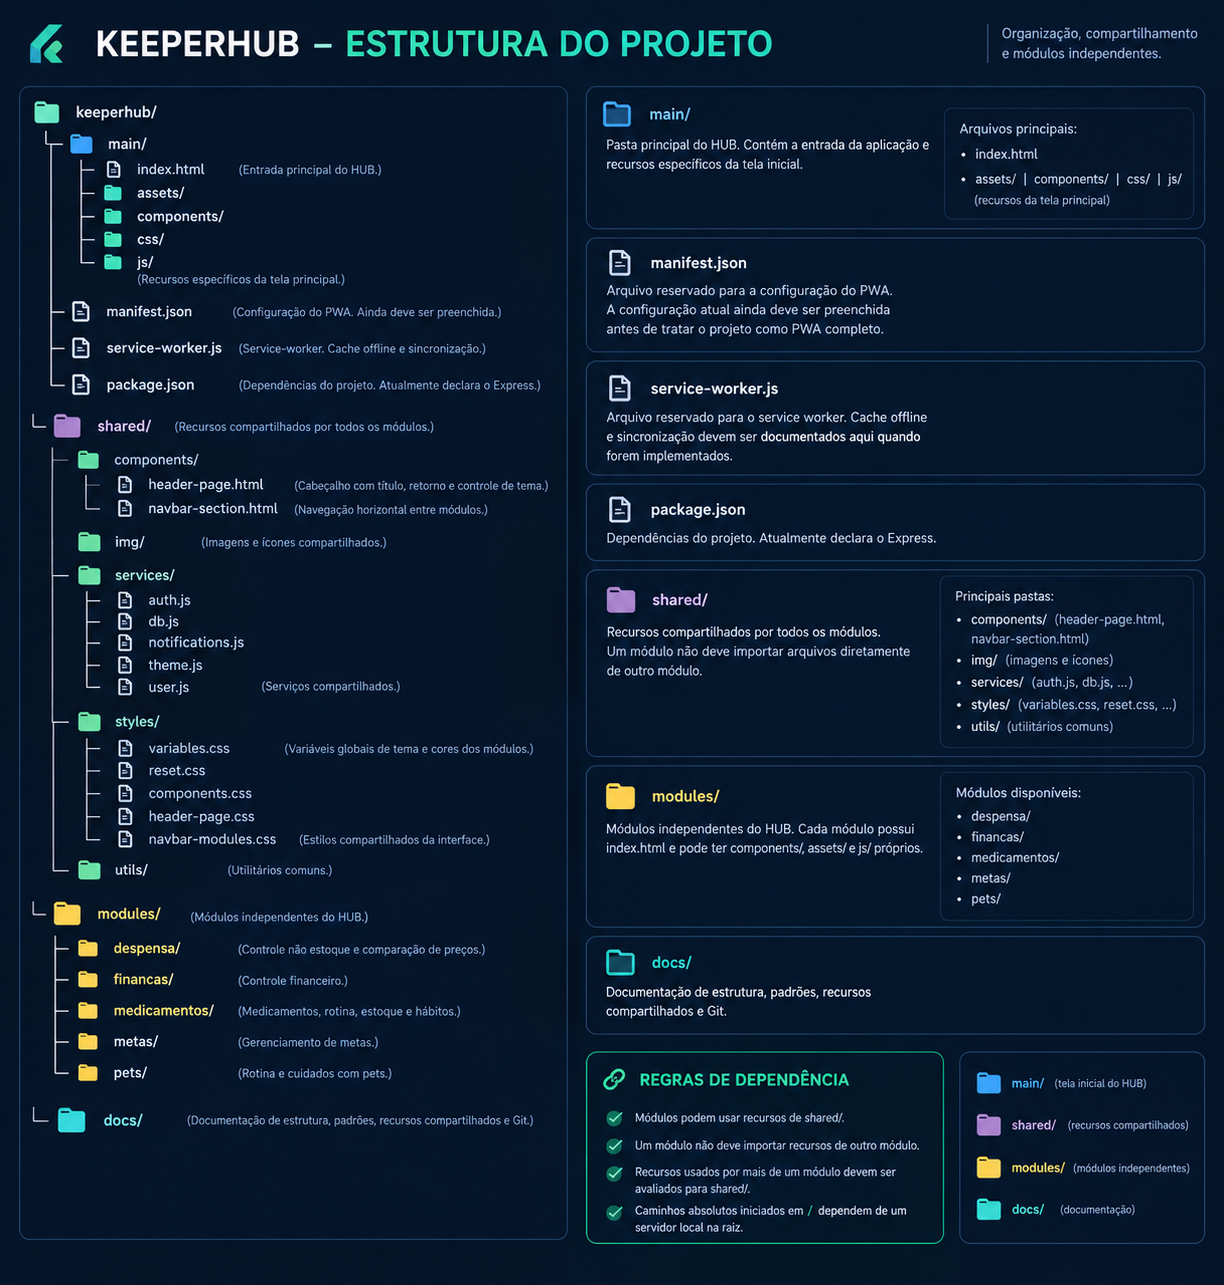
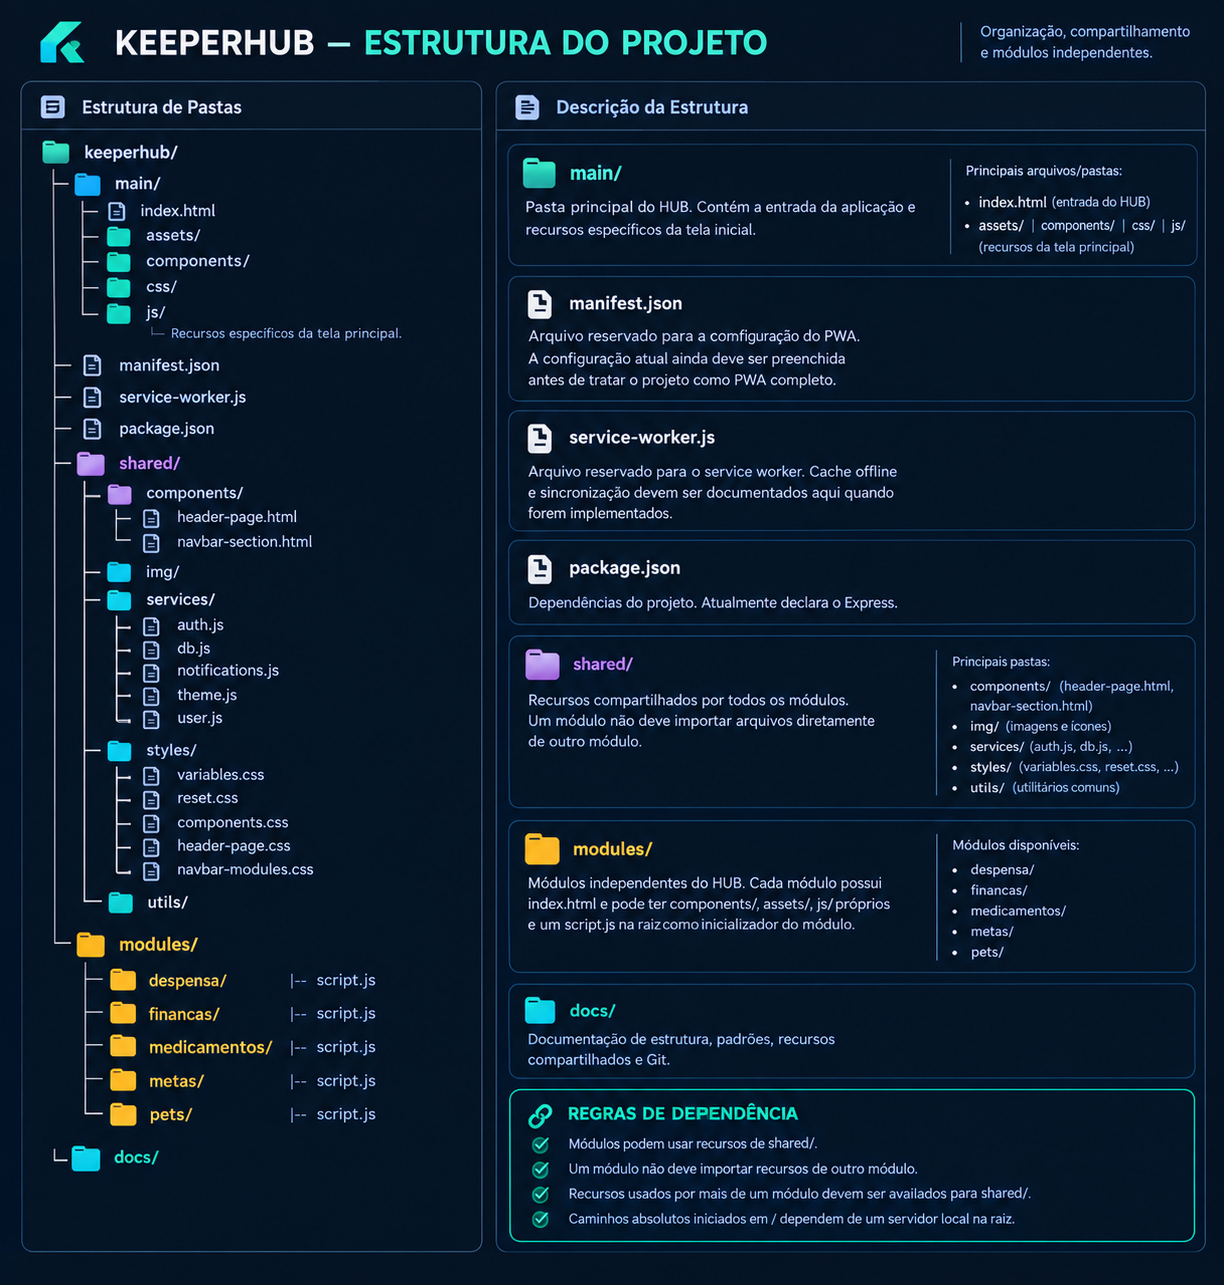
feat: mudança de estrutura

diff --git a/modules/financas/components/relatorios.html b/modules/financas/components/relatorios.html
@@ -24,6 +24,6 @@
       <article class="report-section largest-expense"><h2>MAIOR DESPESA DO MÊS</h2><div><span aria-hidden="true">🛒</span><p><strong>Supermercado</strong><small>Categoria: Alimentação</small></p><b>R$ 650,00</b></div></article>
     </section>
   </main>
-  <script src="../js/script.js"></script>
+  <script src="../script.js"></script>
 </body>
 </html>

diff --git a/modules/financas/components/nova-transacao.html b/modules/financas/components/nova-transacao.html
@@ -36,6 +36,6 @@
         <footer class="actions"><button class="save-button" type="submit"><span aria-hidden="true">✓</span> Salvar transação</button><button class="cancel-button" type="button">Cancelar</button></footer>
     </form>
 </section></main>
-<script src="../js/script.js"></script>
+<script src="../script.js"></script>
 </body>
 </html>

diff --git a/modules/medicamentos/script.js b/modules/medicamentos/script.js
@@ -1,3 +1,6 @@
+// Inicializador do módulo.
+// Este arquivo coordena a execução das funções exportadas dos arquivos em /js,
+// usando import/export e async functions para montar a lógica principal do módulo.
 
 // mudança de abas em medicacoes.html
 document.addEventListener('DOMContentLoaded', () => {

diff --git a/modules/financas/script.js b/modules/financas/script.js
@@ -1,3 +1,7 @@
+// Inicializador do módulo.
+// Este arquivo coordena a execução das funções exportadas dos arquivos em /js,
+// usando import/export e async functions para montar a lógica principal do módulo.
+
 const API_URL = '/api';
 
 async function requestApi(path, options = {}) {

diff --git a/modules/medicamentos/components/adicionar-medicamento.html b/modules/medicamentos/components/adicionar-medicamento.html
@@ -336,6 +336,6 @@
 
     <!-- Script do Módulo Medicamentos -->
     <script src="/shared/services/theme.js"></script>
-    <script type="module" src="/modules/medicamentos/js/script.js"></script>
+    <script type="module" src="/modules/medicamentos/script.js"></script>
 </body>
 </html>

diff --git a/modules/medicamentos/components/dashboard.html b/modules/medicamentos/components/dashboard.html
@@ -239,6 +239,6 @@
 
         <!-- Scripts -->
         <script src="/shared/services/theme.js"></script>
-        <script type="module" src="/modules/medicamentos/js/script.js"></script>
+        <script type="module" src="/modules/medicamentos/script.js"></script>
     </body>
 </html>

diff --git a/modules/medicamentos/components/medicacoes.html b/modules/medicamentos/components/medicacoes.html
@@ -195,6 +195,6 @@
 
         <!-- Scripts -->
         <script src="/shared/services/theme.js"></script>
-        <script type="module" src="/modules/medicamentos/js/script.js"></script>
+        <script type="module" src="/modules/medicamentos/script.js"></script>
     </body>
 </html>

diff --git a/modules/medicamentos/index.html b/modules/medicamentos/index.html
@@ -240,6 +240,6 @@
         </div>
 
         <!-- Scripts do módulo e componentes compartilhados -->
-        <script type="module" src="/modules/medicamentos/js/script.js"></script>
+        <script type="module" src="/modules/medicamentos/script.js"></script>
     </body>
 </html>

diff --git a/modules/pets/script.js b/modules/pets/script.js
@@ -1,3 +1,7 @@
+// Inicializador do módulo.
+// Este arquivo coordena a execução das funções exportadas dos arquivos em /js,
+// usando import/export e async functions para montar a lógica principal do módulo.
+
 /*
  * Integrações futuras do módulo Pets com Node.js:
  *

diff --git a/modules/despensa/script.js b/modules/despensa/script.js
@@ -1,0 +1,4 @@
+// Inicializador do módulo.
+// Este arquivo coordena a execução das funções exportadas dos arquivos em /js,
+// usando import/export e async functions para montar a lógica principal do módulo.
+.

diff --git a/modules/metas/script.js b/modules/metas/script.js
@@ -1,0 +1,4 @@
+// Inicializador do módulo.
+// Este arquivo coordena a execução das funções exportadas dos arquivos em /js,
+// usando import/export e async functions para montar a lógica principal do módulo.
+.

diff --git a/modules/financas/components/contas.html b/modules/financas/components/contas.html
@@ -25,6 +25,6 @@
             </main>
         </section>
     </section>
-    <script src="../js/script.js"></script>
+    <script src="../script.js"></script>
 </body>
 </html>
